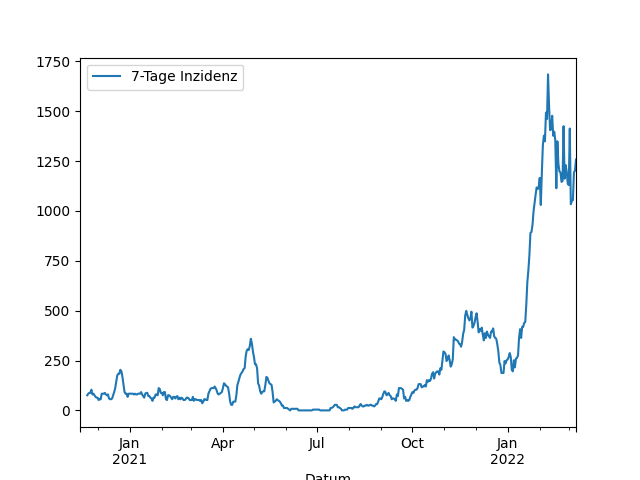
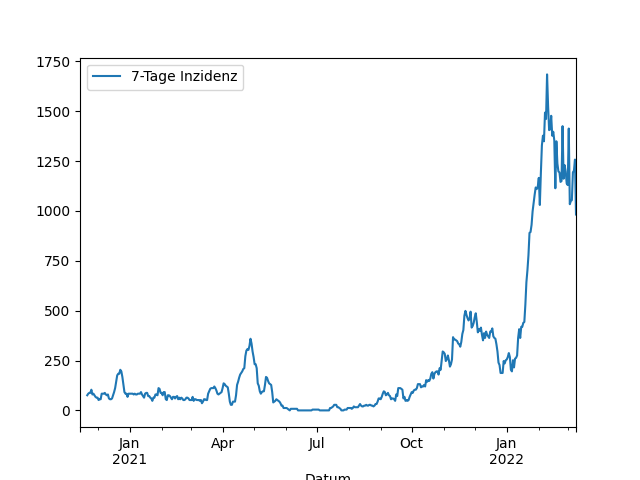
Update images

diff --git a/_includes/aktuelle_inzidenz.md b/_includes/aktuelle_inzidenz.md
@@ -1,1 +1,1 @@
-1257,4
+982,0
